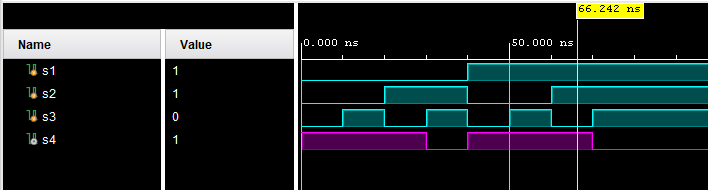
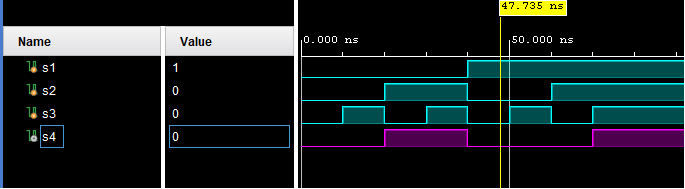
Убрана реализация полного однобитного сумматора и заменена другой

Changed region(s): [[0.0, 0.0, 1.0, 1.0]]

diff --git a/Labs/01. Verilog. Adder/README.md b/Labs/01. Verilog. Adder/README.md
@@ -90,13 +90,13 @@ S — это цифра, записываемая непосредственно
 
 Поскольку теперь у нас есть и входной и выходной биты переноса, для их различия добавлены индексы “in” и “out”.
 
-Как в таком случае описать S? Например, как `a ^ b ^ Pin`, где `^` — операция исключающего ИЛИ. Давайте сравним такую операцию с таблицей истинности. Сперва вспомним, что Исключающее ИЛИ — ассоциативная операция [`(a^b)^c = a^(b^с)`], т.е. нам не важен порядок вычисления. Предположим, что Pin равен нулю. Исключающее ИЛИ с нулем дает второй операнд (`a^0=a`), значит `(a^b)^0 = a^b`. Это соответствует верхней половине таблицы истинности для сигнала S.
+Как в таком случае описать S? Например, как `а ^ b ^ Ріn`, где `^` — операция исключающего ИЛИ. Давайте сравним такую операцию с таблицей истинности. Сперва вспомним, что Исключающее ИЛИ — ассоциативная операция [`(a^b)^c = a^(b^с)`], т.е. нам не важен порядок вычисления. Предположим, что Pin равен нулю. Исключающее ИЛИ с нулем дает второй операнд (`a^0=a`), значит `(a^b)^0 = a^b`. Это соответствует верхней половине таблицы истинности для сигнала S.
 
 Предположим, что Pin равен единице. Исключающее ИЛИ с единицей дает нам отрицание второго операнда (`a^1=!a`), значит `(a^b)^1=!(a^b)`. Это соответствует нижней половине таблицы истинности.
 
 Для выходного бита переноса, всё гораздо проще. Он равен единице, когда хотя бы два из трех операндов равны единице, это значит что необходимо попарно сравнить все операнды, и если найдется хоть одна такая пара, он равен единице. Это утверждение можно записать следующим образом:
 
-`Pout = (a&b) | (a&Pin) | (b&Pin)`, где `&` — логическое И, `|` — логическое ИЛИ.
+`Роut = (a&b) | (а&Pіn) | (b&Ріn)`, где `&` — логическое И, `|` — логическое ИЛИ.
 
 Цифровая схема устройства с описанным поведением выглядит следующим образом:
 
@@ -106,57 +106,43 @@ S — это цифра, записываемая непосредственно
 
 ## Практика
 
-Реализуем схему в виде модуля, описанного на языке Verilog:
+Реализуем схему (рис.3) в виде модуля, описанного на языке Verilog:
 
 <br>
 
-<details>
+![](../../../technical/Labs/Pic/example.drawio.png)
 
-  <summary>Прочти меня перед использованием кода из примера.</summary>
+*Рисунок 3. Схема модуля example*
 
-  ### В код намеренно вставлены неподдерживаемые символы. Не копируй, одумайся!
-
-  Важной частью изучения языка является практика по написанию кода. Даже если перепечатывая пример, вы не до конца его понимаете, вы запоминаете структуру кода и его конструкции. Вы изучаете этот пример для себя, а не для оценки, так что будьте честны с собой и воспроизведите пример самостоятельно.
-
-<details>
-
-  <summary> — Но мне очень надо.</summary>
-
-  ![im watching you](../../../technical/Labs/Pic/im_watching_you.jpg)
-
-</details>
-
-<details>
-
-  <summary> — Я переписал пример точь-в-точь, а он все равно не работает!</summary>
-
-  Напишите кому-нибудь из [этого списка](../../Other/Teachers.md), вам обязательно помогут!
-
-</details>
-
-</details>
+Модуль example имеет три входных сигнала и один выходной. Для удобства понимания в листинге кода присутствуют сигналы n1—n4. Их можно опустить, тогда s4 будет задаваться так: `assign s4 = (~(s2 & s3) & s1) ^ ((s1 ^ s2) | s1)`.
 
 ```systemverilog
-module fulladder(
-    input а,
-    input b,
-    input Ріn,
-    output S,
-    output Роut
-    );
+module example(
+  input      s1,   // Входные сигналы
+  input      s2,
+  input      s3,
+  output     s4    // Выходной сигнал
 
-    assign S    = а ^ b ^ Ріn;
-    assign Pout = (a & b) | (а & Pin) | (b & Ріn);
+  );
+  
+  wire n1, n2, n3, n4;
 
-endmodule
+  assign n1 = ~(s2 & s3);
+  assign n2 = s1 ^ s2;
+  assign n3 = n2 | s1;
+  assign n4 = n1 & s1;
+  assign s4 = n4 ^ n3;
+
+  endmodule
+
 ```
-*Листинг 1. Verilog-код модуля fulladder*
+*Листинг 1. Verilog-код модуля example*
 
 По данному коду, САПР сможет реализовать следующую схему:
 
-![](../../../technical/Labs/Pic/1_fig-3.png)
+![](../../../technical/Labs/Pic/example_vivado.png)
 
-*Рисунок 3. Цифровая схема полного однобитного сумматора, сгенерированная САПР Vivado*
+*Рисунок 4. Цифровая схема модуля example, сгенерированная САПР Vivado*
 
 Схема похожа на ту, что мы сделали сами, но как проверить, что эта схема не содержит ошибок и делает именно то, что от нее ожидается?
 
@@ -166,57 +152,47 @@ endmodule
 
 Перед тем как писать верификационное окружение, необходимо составить план того, как будет проводиться проверка устройства (составить верификационный план).
 
-Как мы хотим проверить устройство, складывающее три однобитных числа? Поскольку устройство настолько простое, что число всех его возможных входных наборов воздействий равно восьми, и  не имеет памяти (т.е. каждый раз, когда модулю подаются на вход одни и те же значения, оно вернет тот же результат), мы можем проверить его работу, перебрав все возможные варианты его работы.
+Поскольку устройство настолько простое, что число всех его возможных входных наборов воздействий равно восьми, и не имеет памяти (т.е. каждый раз, когда модулю подаются на вход одни и те же значения, оно вернет тот же результат), мы можем проверить его работу, перебрав все возможные варианты его работы.
 
 ```systemverilog
 module testbench();             // <- Не имеет ни входов, ни выходов!
+    reg s1, s2, s3;
+    wire s4;
 
-    reg А, В, Р_in;
-    wire S, Р_out;
-
-    fulladder DUT(              // <- Подключаем проверяемый модуль
-      .a(А),
-      .b(В),
-      .Pin(P_in),
-      .s(S),
-      .Pout(P_out)
+    mod2 DUT(                   // <- Подключаем проверяемый модуль
+        .s1    (s1),
+        .s2    (s2),
+        .s3    (s3),
+        .s4    (s4)
     );
 
     initial begin
-        А = 0; В = 0; Р_іn = 0; // <- Подаём на входы модуля тестовые
-        #5;                     //    воздействия
-
-        А = 1; В = 0; Р_іn = 0;
-        #5;                     // <- Делаем паузу в пять отсчётов
-                                // времени симуляции перед очередным
-        А = 0; В = 1; Р_іn = 0; // изменением входных сигналов
-        #5;
-
-        А = 1; В = 1; Р_іn = 0;
-        #5;
-
-        А = 0; В = 0; Р_іn = 1;
-        #5;
-
-        А = 1; В = 0; Р_іn = 1;
-        #5;
-
-        А = 0; В = 1; Р_іn = 1;
-        #5;
-
-        А = 1; В = 1; Р_іn = 1;
-        #5;
-    end
-
+        s1 = 'd0; s2 = 'd0; s3 = 'd0;  // <- Подаём на входы модуля тестовые
+        #10;                           //    воздействия
+        s1 = 'd0; s2 = 'd0; s3 = 'd1;
+        #10;                           // <- Делаем паузу в десять отсчётов
+        s1 = 'd0; s2 = 'd1; s3 = 'd0;  // времени симуляции перед очередным
+        #10;                           // изменением входных сигналов
+        s1 = 'd0; s2 = 'd1; s3 = 'd1;
+        #10;
+        s1 = 'd1; s2 = 'd0; s3 = 'd0;
+        #10;
+        s1 = 'd1; s2 = 'd0; s3 = 'd1;
+        #10;
+        s1 = 'd1; s2 = 'd1; s3 = 'd0;
+        #10;
+        s1 = 'd1; s2 = 'd1; s3 = 'd1;
+    
+end
 endmodule
 ```
-*Листинг 2. Verilog-код тестбенча для модуля fulladder*
+*Листинг 2. Verilog-код тестбенча для модуля example*
 
-![](../../../technical/Labs/Pic/1_fig-4.png)
+![](../../../technical/Labs/Pic/example_simulation.png)
 
-*Рисунок 4. Временная диаграмма, моделирующая работу полного однобитного сумматора*
+*Рисунок 5. Временная диаграмма, моделирующая работу схемы с рис.3*
 
-P_out и S объединены вместе, их общую запись в виде десятичного числа вы можете видеть в виде сигнала Result. Можете убедиться, что сумма каждого среза троек, дает правильный результат.
+В данной лаборатной работе вам предстоит реализовать схему полного однобитного сумматора (рис.2).
 
 ### Полный четырехбитный сумматор
 
@@ -225,7 +201,7 @@ P_out и S объединены вместе, их общую запись в в
 
 ![](../../../technical/Labs/Pic/1_fig-5.png)
 
-*Рисунок 5. Схема четырехбитного сумматора*
+*Рисунок 6. Схема четырехбитного сумматора*
 
 Фиолетовой линией на схеме показаны провода, соединяющие выходной бит переноса сумматора предыдущего разряда, с входным битом переноса сумматора следующего разряда.
 Как же реализовать модуль, состоящий из цепочки других модулей? Половину этой задачи, мы уже сделали, когда писали тестбенч к однобитному сумматору в _Листинге 2_ — мы создавали модуль внутри другого модуля и подключали к нему провода. Теперь надо сделать тоже самое, только с чуть большим числом модулей.
@@ -279,32 +255,22 @@ endmodule
 
 ![](../../../technical/Labs/Pic/1_fig-6.png)
 
-*Рисунок 6. Схема четырехбитного сумматора, сгенерированная САПР Vivado*
+*Рисунок 7. Схема четырехбитного сумматора, сгенерированная САПР Vivado*
 
 Схема может показаться запутанной, но если присмотреться, вы увидите, как от шин A, B и S отходят линии к каждому из сумматоров, а бит переноса передается от предыдущего сумматора к следующему.
 
 ## Задание
 
-Вам необходимо реализовать полный 32-битный сумматор. Соединять вручную 32 однотипных модуля чревато усталостью и ошибками, поэтому для автоматизации подобной задачи существует блок `generate`, в частности — конструкция `generate for`, пример использования которой вы можете увидеть на изображении ниже (так же существуют конструкции `generate if`, `generate case`). 
-
-![](../../../technical/Labs/Pic/1_listing-4.png)
-
-*Листинг 4. Пример использования конструкции generate for*
-
-Как вы можете догадаться, в этом примере создано 3 модуля, имена которых оканчиваются на значение итератора, по которому шел цикл, а к самим модулям подключены соответствующие итератору провода из шин. Разумеется, для своих целей вы можете использовать и **i+1** и двойные циклы. 
-
-Обратите внимание на `: newgen` стоящий после ключевого слова `begin`. В некоторых САПР, код может не собраться, если у конструкции `generate for` нет названия (лейбла) с помощью подобной записи (двоеточия и названия).
-
-**Обратите внимание**, что данный листинг не является решением вашей задачи, поскольку у вашего сумматора три входа и два выхода, а у сумматора в примере нет бита переноса.
+Вам необходимо реализовать полный 32-битный сумматор. Соединять вручную 32 однотипных модуля чревато усталостью и ошибками, поэтому можно, например, сначала создать 4-битный сумматор (либо другой разрядности), а затем из него сделать 32-битный. 
 
 ### Порядок выполнения задания
 
 1. Согласно _руководству по созданию проекта в Vivado_:
 	1. Создайте проект;
 	2. В `Design Sources` проекта создайте `Verilog`-файл `fulladder.v`.
-2. Опишите в файле модуль `fulladder`, код которого представлен в _Листинге 1_.
+2. Опишите в файле модуль `fulladder`, схема которого представлена на _Рис. 2_.
 3. В `Design Sources` проекта создайте `Verilog`-файл `fulladder32`.
-4. Опишите модуль `fulladder32` с помощью конструкции `generate for` таким образом, чтобы в нем выполнялось поразрядное сложение двух 32-битных чисел с помощью многократного подключения модуля, описанного в файле `fulladder.v`. Пример использования конструкции приведён в _Листинге 4_.
+4. Опишите модуль `fulladder32` таким образом, чтобы в нем выполнялось поразрядное сложение двух 32-битных чисел с помощью многократного подключения модуля, описанного в файле `fulladder.v`.
 5. Обратите внимание, что входной бит переноса должен подаваться на сумматор, выполняющий сложение нулевого разряда, выходной бит переноса соединяется с выходным битом переноса сумматора, выполняющего сложение 31-го разряда (см. реализацию четырехбитного сумматора в _Листинге 3_).
 6. В `Simulation Sources` проекта создайте `Verilog`-файл `testbench`.
 7. Опишите в созданном файле модуль `testbench`, код которого представлен в _Листинге 2_.
